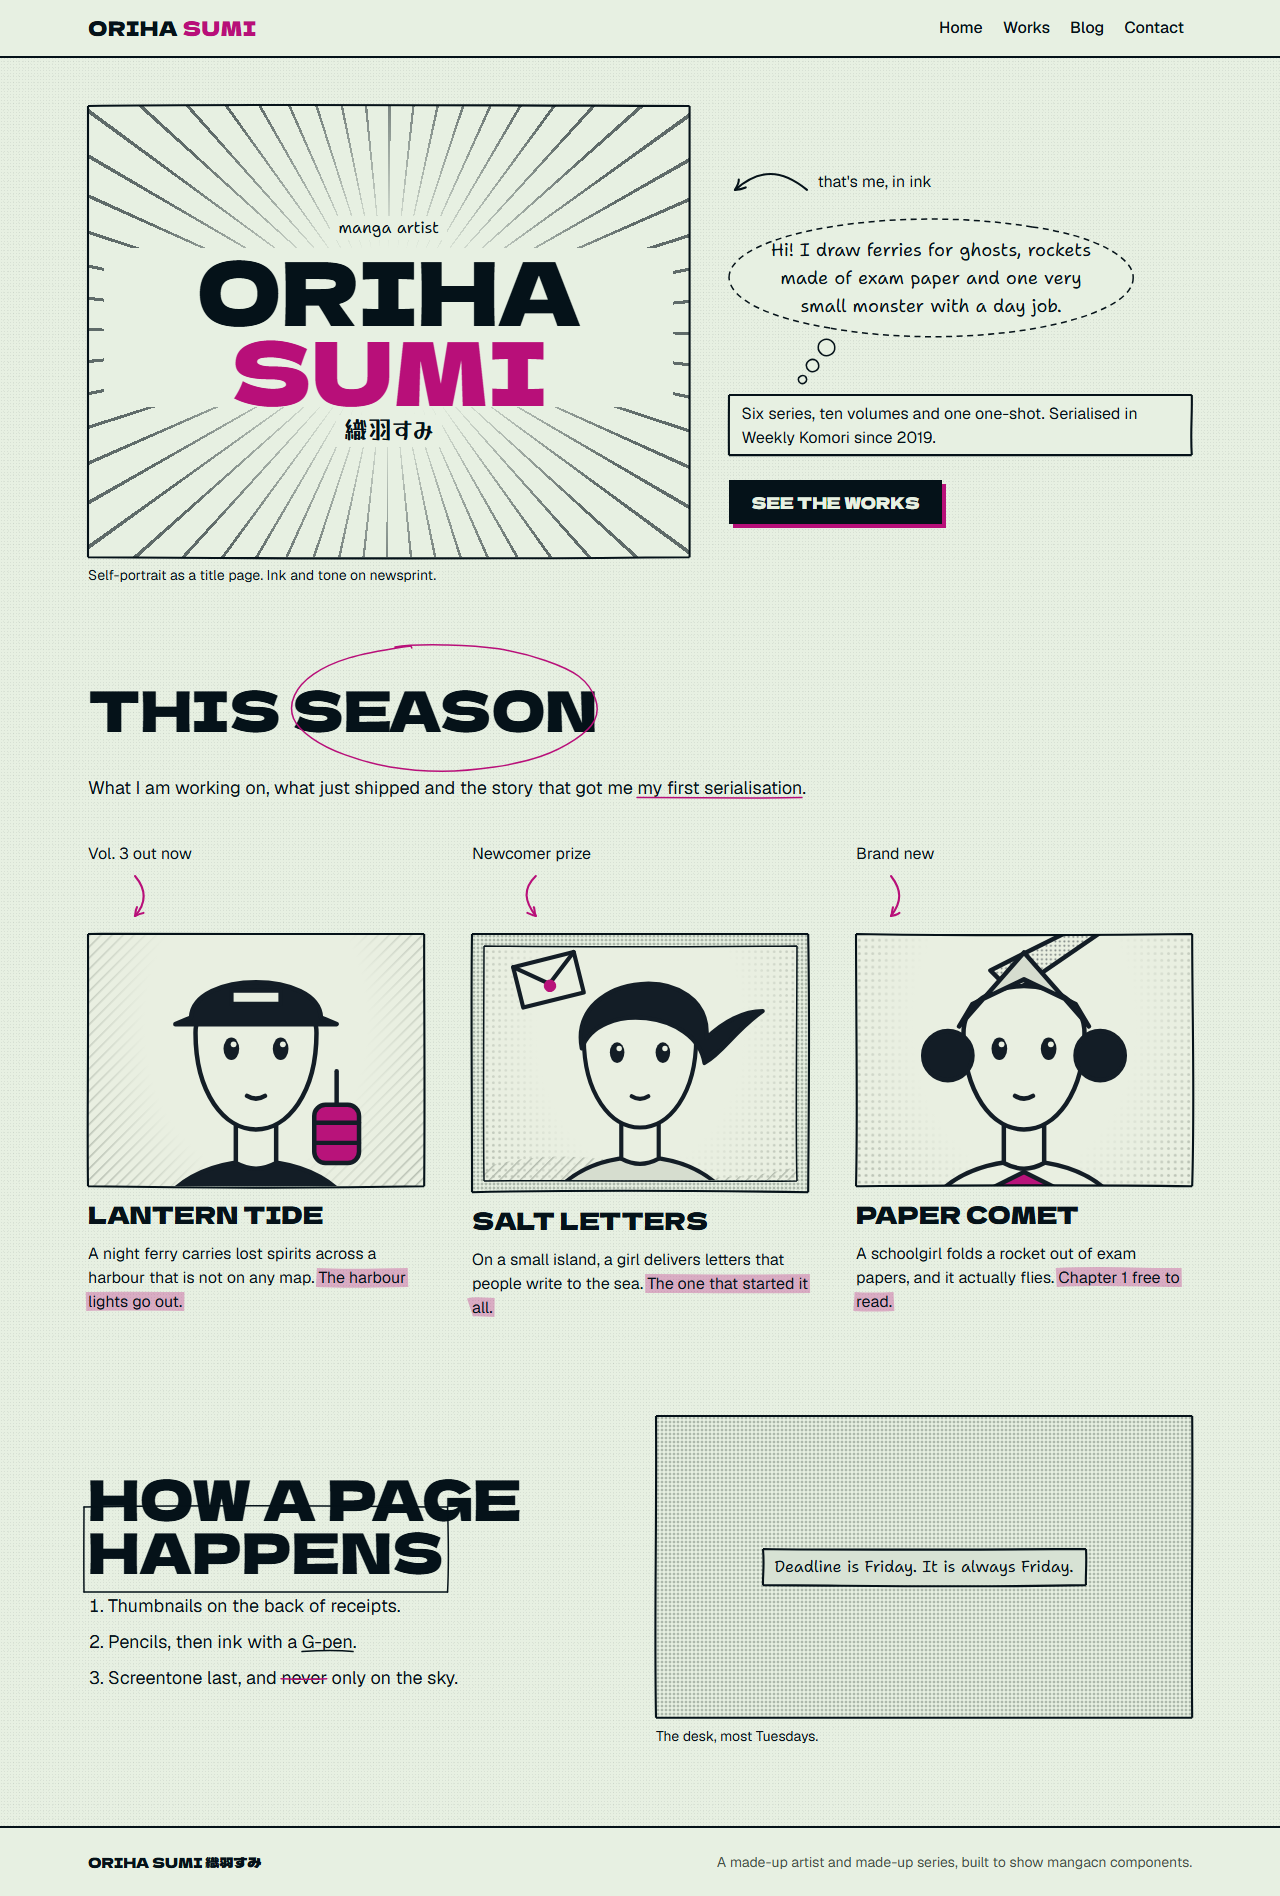
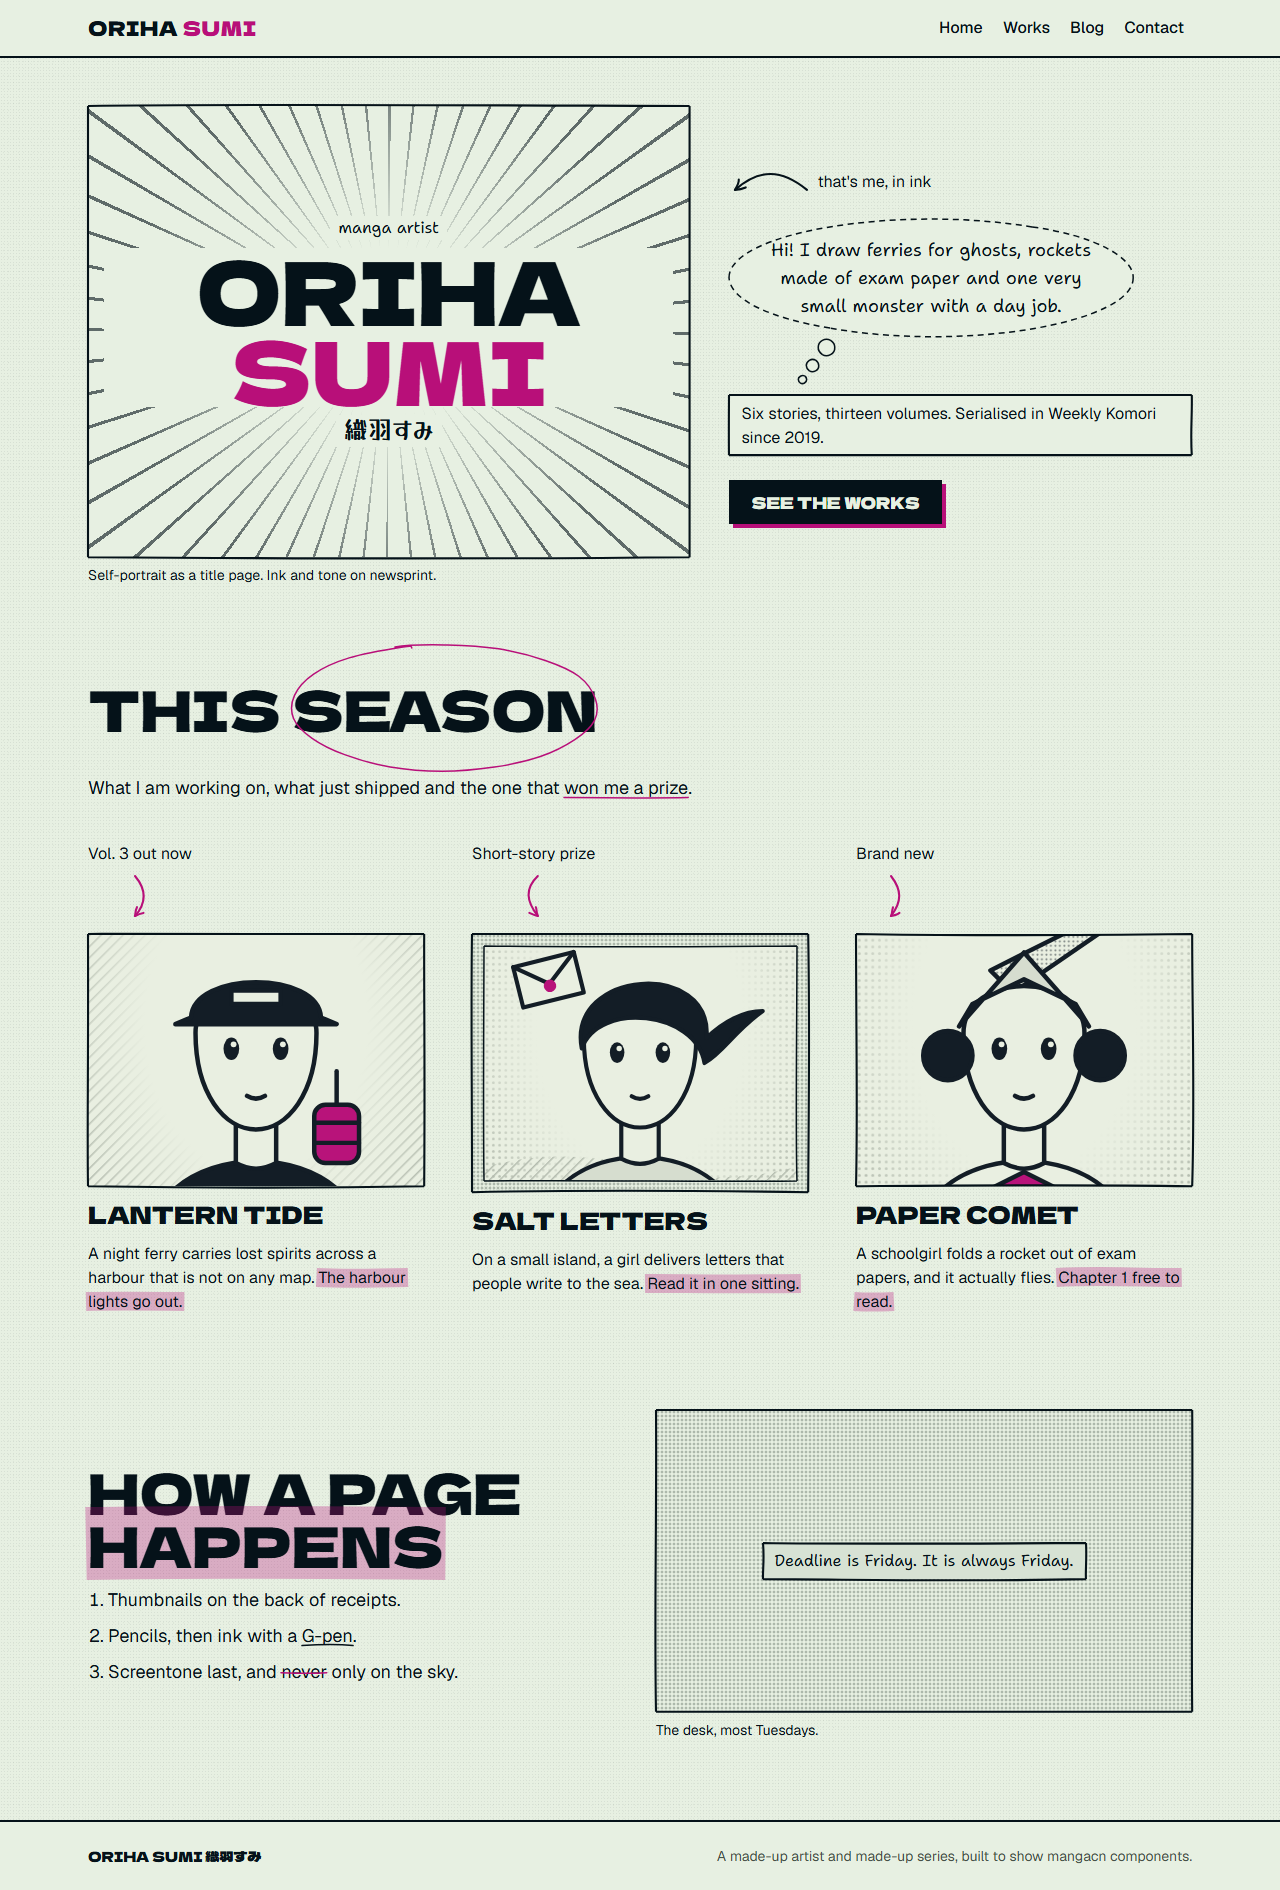
fix: legible status stamps, consistent copy, commit shot script

diff --git a/portfolio/lib/works.ts b/portfolio/lib/works.ts
@@ -18,7 +18,7 @@ export interface Work {
   years: string;
   volumes: string;
   genre: string;
-  /** Stamp word on the portrait; kept to one to three glyphs so the small stamp stays legible. */
+  /** Stamp word on the portrait; kept to a short Latin word so the small stamp stays legible. */
   status: string;
   logline: string;
   synopsis: string[];
@@ -42,7 +42,7 @@ export const WORKS: Work[] = [
     years: "2023 to now",
     volumes: "3 volumes",
     genre: "Supernatural, slice of life",
-    status: "連載",
+    status: "NOW",
     logline: "A night ferry carries lost spirits across a harbour that is not on any map.",
     synopsis: [
       "Kai Amane pilots the last ferry of the night. His passengers are spirits who forgot where they were going, and the fare is one small memory each.",
@@ -96,7 +96,7 @@ export const WORKS: Work[] = [
     years: "2019 to 2022",
     volumes: "6 volumes, complete",
     genre: "Mecha, drama",
-    status: "完結",
+    status: "END",
     logline: "A retired giant-robot pilot runs a herb shop and tries very hard to stay retired.",
     synopsis: [
       "Tetsu Mogi once piloted the city's last defence robot. Now he grows rosemary in its cockpit, parked behind his shop.",
@@ -123,7 +123,7 @@ export const WORKS: Work[] = [
     years: "2024 to now",
     volumes: "2 volumes",
     genre: "Horror, comedy",
-    status: "連載",
+    status: "NOW",
     logline: "A shrine exorcist who is terrified of the dark has to work the night shift.",
     synopsis: [
       "Shion Kagura can banish any spirit, as long as the lights are on. Her shrine's bell rings eight times at dusk; when it rings a ninth, something has come in.",
@@ -150,7 +150,7 @@ export const WORKS: Work[] = [
     years: "2021",
     volumes: "One-shot",
     genre: "Workplace comedy",
-    status: "読切",
+    status: "ONE",
     logline: "A kaiju the size of a stapler takes a job in accounts.",
     synopsis: [
       "Gonta was meant to be a city-sized monster. He came out pocket-sized, so he applied for an office job instead.",
@@ -177,11 +177,11 @@ export const WORKS: Work[] = [
     years: "2022",
     volumes: "1 volume, complete",
     genre: "Drama, romance",
-    status: "受賞",
+    status: "PRIZE",
     logline: "On a small island, a girl delivers letters that people write to the sea.",
     synopsis: [
       "Nagi Uruma is the island's youngest postal worker. Her round ends at the cliff, where she reads out letters addressed to the sea.",
-      "One morning the sea writes back. The story won the magazine's newcomer prize.",
+      "One morning the sea writes back. The story won the magazine's short-story prize.",
     ],
     note: "Every panel is grey tone on grey tone, except the letters, which stay white.",
     lead: {

diff --git a/portfolio/app/page.tsx b/portfolio/app/page.tsx
@@ -9,7 +9,7 @@ import { ARTIST, WORKS, portraitFor } from "@/lib/works";
 
 const HIGHLIGHTS = [
   { slug: "lantern-tide", callout: "Vol. 3 out now", detail: "The harbour lights go out." },
-  { slug: "salt-letters", callout: "Newcomer prize", detail: "The one that started it all." },
+  { slug: "salt-letters", callout: "Short-story prize", detail: "Read it in one sitting." },
   { slug: "paper-comet", callout: "Brand new", detail: "Chapter 1 free to read." },
 ].map((item) => ({ ...item, work: WORKS.find((work) => work.slug === item.slug)! }));
 
@@ -43,7 +43,7 @@ export default function Home() {
             day job.
           </ThoughtBubble>
           <CaptionBox font="body" className="text-base">
-            Six series, ten volumes and one one-shot. Serialised in {ARTIST.magazine} since 2019.
+            Six stories, thirteen volumes. Serialised in {ARTIST.magazine} since 2019.
           </CaptionBox>
           <Link
             href="/works"
@@ -61,8 +61,8 @@ export default function Home() {
             This <InkMark kind="circle" color="spot">season</InkMark>
           </h2>
           <p className="max-w-prose text-base sm:text-lg">
-            What I am working on, what just shipped and the story that got me{" "}
-            <InkMark kind="underline" color="spot">my first serialisation</InkMark>.
+            What I am working on, what just shipped and the one that{" "}
+            <InkMark kind="underline" color="spot">won me a prize</InkMark>.
           </p>
         </div>
         <ul className="grid gap-12 sm:grid-cols-2 lg:grid-cols-3">
@@ -100,7 +100,7 @@ export default function Home() {
       <section aria-labelledby="process" className="grid gap-8 md:grid-cols-2 md:items-center">
         <div className="flex flex-col gap-4">
           <h2 id="process" className={HEADING}>
-            How a page <InkMark kind="box">happens</InkMark>
+            How a page <InkMark kind="highlight" color="spot">happens</InkMark>
           </h2>
           <ol className="flex list-decimal flex-col gap-2 pl-5 text-base sm:text-lg">
             <li>Thumbnails on the back of receipts.</li>

diff --git a/portfolio/app/works/[slug]/page.tsx b/portfolio/app/works/[slug]/page.tsx
@@ -9,7 +9,7 @@ import { HEADING, PAGE_COLUMN } from "@/components/site-chrome";
 import { ThoughtBubble } from "@/components/thought-bubble";
 import { WORKS, portraitFor } from "@/lib/works";
 
-// Every work is prerendered; an unknown slug gets a real 404 instead of a streamed one.
+// Every work is prerendered and the route blocks on its params, as in the reference app.
 export const instant = false;
 
 export function generateStaticParams() {

diff --git a/portfolio/FINDINGS.md b/portfolio/FINDINGS.md
@@ -14,15 +14,18 @@ workaround lives in site code.
 - **Suggested fix:** accept a `linkAs`/`render` prop (or `asChild`-style slot) for the name
   link, defaulting to `<a>`.
 
-## 2. character-card: the status stamp is fixed at `size="sm"` and its word becomes illegible
+## 2. character-card: the status stamp is fixed at `size="sm"`, horizontal, so most words are illegible
 
-- **What happened:** `status` is pressed with `<Stamp size="sm">` and no size prop is exposed.
-  Seven-letter words ("ONGOING", "ONE-SHOT") shrink to unreadable text inside the circle;
-  two-kanji words (連載, 受賞) are still very small at 1280px.
-- **Repro:** `<CharacterCard status="ONGOING" ... />` and view it at any width.
-- **Workaround:** site data uses one to three glyphs (NEW, 連載, 完結, 読切, 受賞).
-- **Suggested fix:** expose `statusSize` (or pass through stamp props), or let the stamp grow
-  with its text.
+- **What happened:** `status` is pressed with `<Stamp size="sm">` (56 px) and the card exposes
+  neither the stamp's `size` nor its `vertical` option. Words longer than about five Latin
+  letters ("ONGOING") shrink to unreadable text inside the ring, and kanji words (連載, 完結),
+  which Stamp would set as a vertical hanko with `vertical`, are set horizontally at text-xs and
+  become a blur at both 375px and 1280px.
+- **Repro:** `<CharacterCard status="ONGOING" ... />` or `status="連載"` and view the card.
+- **Workaround:** site data uses short Latin words (NOW, NEW, END, ONE, PRIZE); checked legible
+  in zoomed crops at 375px and 1280px.
+- **Suggested fix:** pass through stamp props (`statusProps`, or `statusSize` and
+  `statusVertical`), or turn on `vertical` automatically for one to three CJK characters.
 
 ## 3. character-card: `portrait` must be an image URL, unlike manga-frame
 

diff --git a/portfolio/README.md b/portfolio/README.md
@@ -38,4 +38,5 @@ npm run lint
 npm run build
 ```
 
-QA screenshots at 375px and 1280px, and the horizontal-scroll check, are in `.shots/`.
+QA screenshots at 375px and 1280px, and the horizontal-scroll check, are in `.shots/`; regenerate
+them with `npm run build && npm start`, then `npm run shots` in a second terminal.
